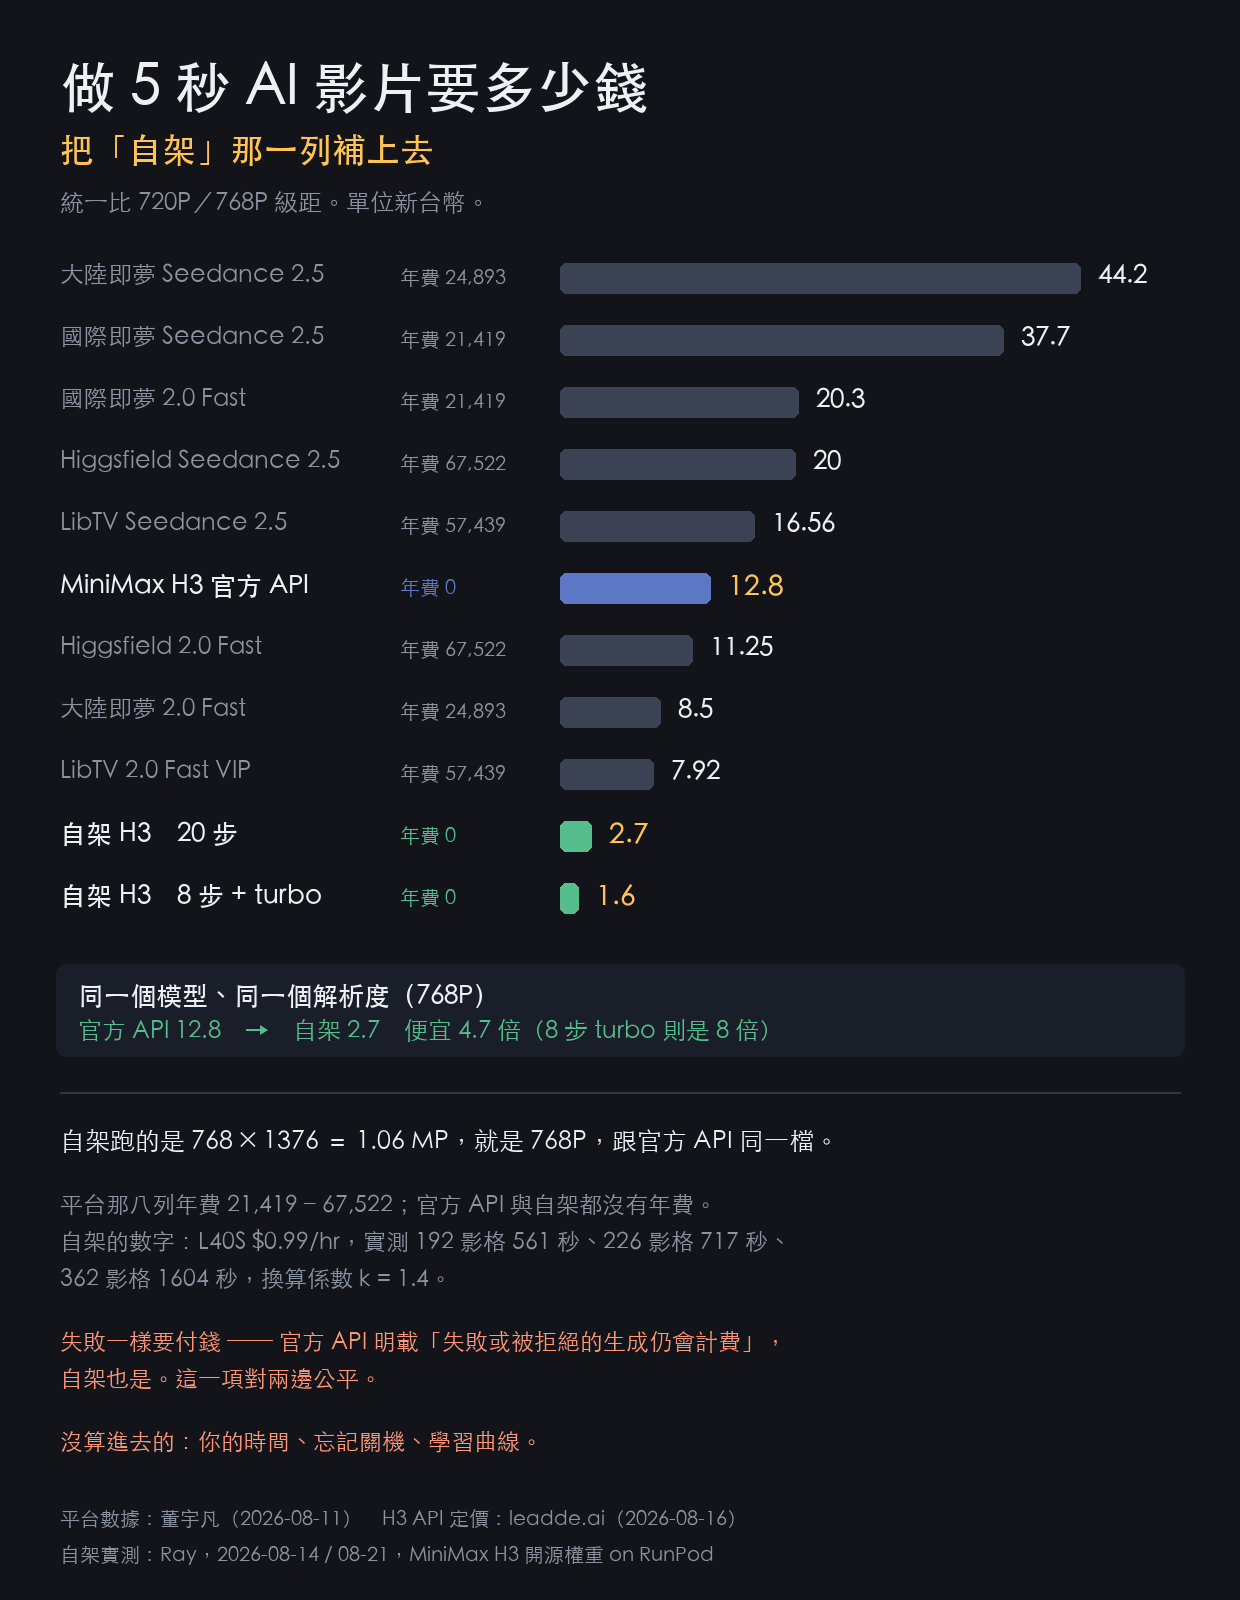
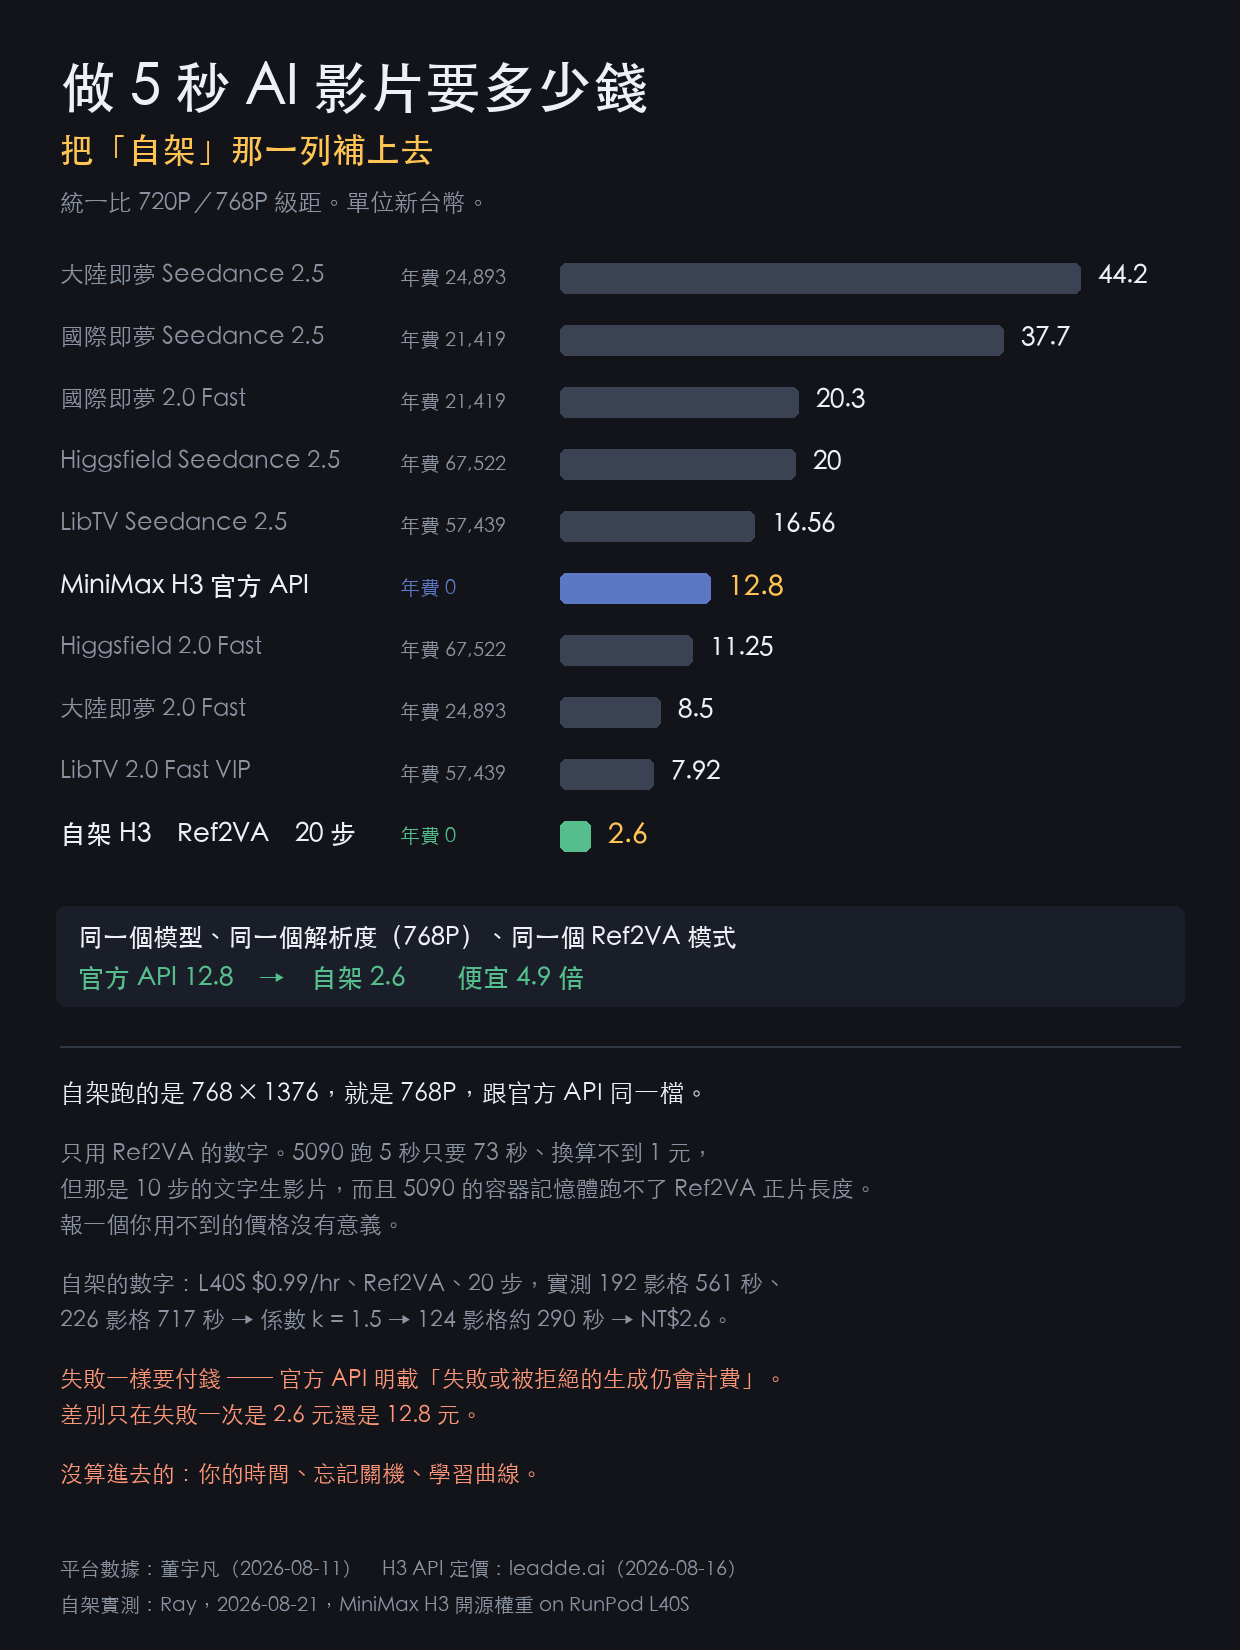
docs: 更新 ai-video-cost-selfhost，數字統一為 Ref2VA 實測基準

diff --git a/docs/index.md b/docs/index.md
@@ -43,7 +43,7 @@ features:
 ### [那張 AI 影片比價表，少了一列](/project/ai-video-cost-selfhost)
 **專案** · 2026-08-22
 
-社群流傳的 AI 影片比價表有八個方案，就是沒有自架那一列。用兩週的實測數字補上去：同一個模型自己跑，比官方 API 便宜 4.7 倍，年費零。
+社群流傳的 AI 影片比價表有八個方案，就是沒有自架那一列。用兩週的實測數字補上去：同一個模型自己跑，比官方 API 便宜 4.9 倍，年費零。
 
 ---
 
